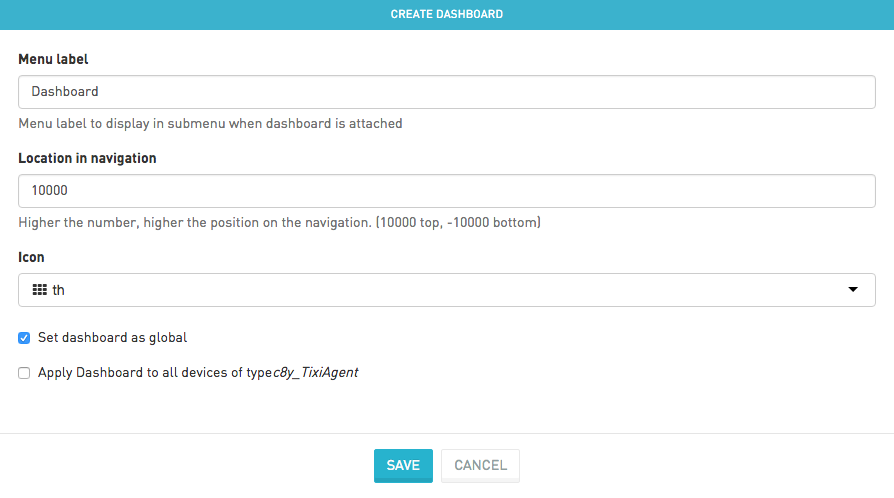
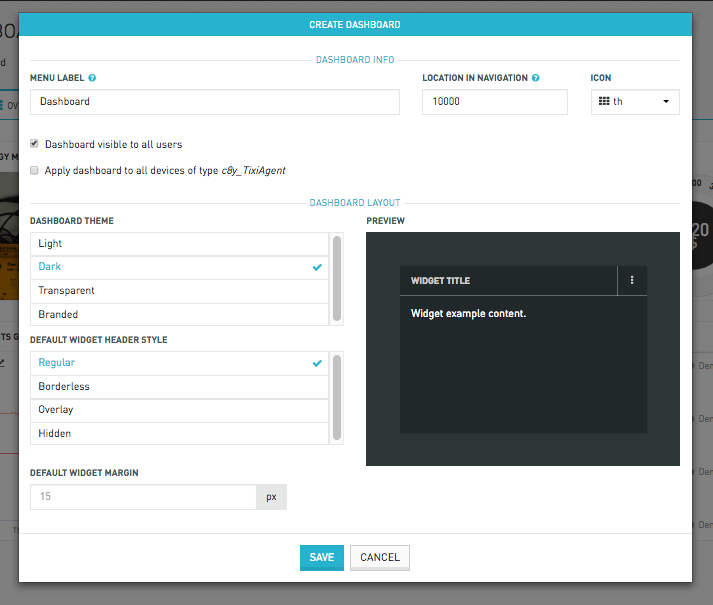
Updated cockpit dashboards pictures and small parts of text .

diff --git a/src/documents/guides/users-guide/cockpit.html.md b/src/documents/guides/users-guide/cockpit.html.md
@@ -419,17 +419,19 @@ Dashboards provide you with a customized visualisation of your data with a set o
 
 ### Creating new Dashboards
 
-To create a dashboard, navigate to an object in the asset hierarchy. Afterward, click on the cogwheel icon at the top right. Select "Create dashboard". This will open a dialog:
+To create a dashboard, navigate to an object in the asset hierarchy. Afterwards, click on the cogwheel icon at the top right. Select "Create dashboard". This will open a dialog:
+
+![Dashboard cogwheel](/guides/users-guide/dashboardcogwheel.png)
 
 * The name of the dashboard, which will show in the menu.
 
-* The location of the dashboard in the menu.
+* The location of the dashboard in navigation.
 
 * The icon which is rendered next to the name in the menu.
 
-* "Set dashboard as global": Whether the dashboard is visible to everyone (“global”) or just limited numbers of users.
+* "Dashboard visible to all users": Whether the dashboard is visible to everyone (“global”) or just limited number of users.
 
-* "Apply dashboard to all devices of type": Whether the dashboard should be visible only for this object or for all devices of the same type.
+* "Dashboard layout": Configure the layout of your dashboard. Select a "Dashboard Theme", "Default Widget Header Style" and "Default Widget Margin". Afterwards, you can see your currently selected layout under "Preview".
 
 ![image alt text](/guides/users-guide/image_14.png)
 
@@ -443,21 +445,45 @@ Then this dashboard should appear for all identical devices. Changes made to thi
 
 > You can only add widgets and data to the dashboard for the device itself. It is not possible to add data from child devices because the structure of these devices might be different from device to device.
 
+### Adding permissions to a Dashboard
+ 
+Permissions can be granted to a specific group only. To do so, create a new dashboard as described above or edit a dashboard. 
+
+> To edit a dashboard, click on the cogwheel on the top-right and select "Edit Dashboard".
+
+In order to grant permissions to a specific group, first deselect both "Dashboard visible to all users" and "Apply dashboard to all devices of type "_type_".
+
+![Add permissions](/guides/users-guide/dashboardaddright.png)
+
+Then, click on "Add permissions" and select a group.
+
+![Select group](/guides/users-guide/dashboardforgroup.png)
+
+Afterwards, select the desired permission for the selected group.
+
+![Select permission](/guides/users-guide/dashboardpermission.png)
+
+> Note that, permissions can be granted for more than one groups.
+
 ### Adding a Widget to a Dashboard
 
-To add a widget to a dashboard, ensure that the dashboard is visible. Afterward, click on the cogwheel icon at the top right. Select "Add a widget to a dashboard". This will open a dialog with a selection of widgets you can add to the dashboard.
+To add a widget to a dashboard, ensure that the dashboard is visible. Afterwards, click on the cogwheel icon at the top right. Select "Add a widget to a dashboard". This will open a dialog with a selection of widgets you can add to the dashboard.
 
 ![image alt text](/guides/users-guide/image_15.png)
 
-When selecting a widget type, additional input fields for this widget type will pop up. More information about the "[Widget Package](#widget-package)".
+When selecting a widget type, additional input fields for this widget type will pop up. More information about the "[Widget Package](#widget-package)". Similar to dashboards you can "Customize widget style". The currently selected style can be seen in the preview shown on the right side.
 
 ### Editing a Dashboard
 
-You can edit dashboard properties by clicking on the cogwheel icon and select "Edit dashboard". This will bring up a similar dialog like creating a dashboard. In this dialog the dashboard name, icon, position and permissions can be edited.
-
-You can rearrange the widgets on the dashboard. By dragging and dropping the header of the widget, you can move the widget to another position on the page. By dragging and dropping the arrows on the bottom right corner of a widget, you can resize a widget. By clicking on the cross icon in the top right corner, you can delete the widget. By clicking on the cogwheel icon on the top right corner of the widget, you can edit the widget properties. The following figure shows a widget with all mentioned icons visible:
+You can edit dashboard properties by clicking on the cogwheel icon and select "Edit dashboard". This will bring up a similar dialog like creating a dashboard. In this dialog the dashboard name, icon, position, style and permissions can be edited.
 
 ![image alt text](/guides/users-guide/image_16.png)
+
+You can rearrange the widgets on the dashboard. By dragging and dropping the header of the widget, you can move the widget to another position on the page. By dragging and dropping the arrows on the bottom right corner of a widget, you can resize a widget. By clicking on the icon at the top right corner of the widget, you can delete or edit the widget properties.
+
+> If the dashboard is locked, widgets cannot be rearranged. In order to lock/unlock a dashboard, click on the cogwheel at the top right and then click on "Lock Dashboard"/"Unlock Dashboard".
+
+![dashboard lock](/guides/users-guide/dashboardlock.png)
 
 On a laptop, these icons only appear when you hover over the widget header.
 
@@ -465,13 +491,13 @@ Editing on touch devices like smartphones or tablets do not support all function
 
 ### Copying a dashboard
 
-To copy a dashboard from one object to another, use the cogwheel on the top right and select "Copy dashboard". Afterward select the object where the dashboard should be applied to and click "Paste Dashboard" to insert the dashboard.
+To copy a dashboard from one object to another, use the cogwheel on the top right and select "Copy dashboard". Afterwards select the object where the dashboard should be applied to and click "Paste Dashboard" to insert the dashboard.
 
 An alternative way to copy a dashboard is to use the "[Dashboard per type](#creating-a-dashboard-for-all-devices-of-the-same-type)" approach.  With the "Dashboard per type" approach you copy the dashboard from one object to **all** identical objects.
 
 ### Removing a Dashboard
 
-To add a widget to a dashboard, ensure the dashboard is visible.The same applies when removing it. Click on the cogwheel icon at the top right. Select "Remove dashboard" to remove a dashbord.
+To add a widget to a dashboard, ensure the dashboard is visible.The same applies when removing it. Click on the cogwheel icon at the top right. Select "Remove dashboard" to remove a dashboard.
 
 ## <a name="widget"></a>Widget Package
 
@@ -842,7 +868,7 @@ A list of smart rules is shown below. Note that the number of smart rules shown 
 
 ![image alt text](/guides/users-guide/image_23.png)
 
-Afterward, if the rule was set to enabled and was not activated for specific objects, the rule will be active for all devices and groups. See next section on how to deactivate a smart rule for specific objects.
+Afterwards, if the rule was set to enabled and was not activated for specific objects, the rule will be active for all devices and groups. See next section on how to deactivate a smart rule for specific objects.
 
 Disabled Smart Rules are not displayed in group menus or device menus to avoid confusion.
 Smart Rules can be instantiated multiple times.
